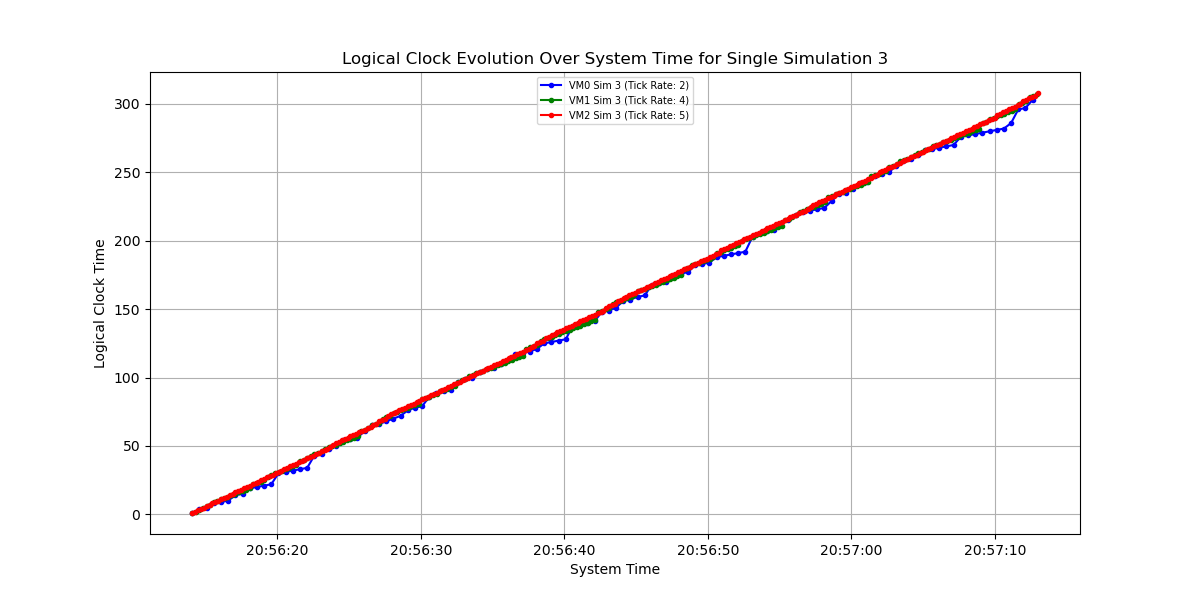
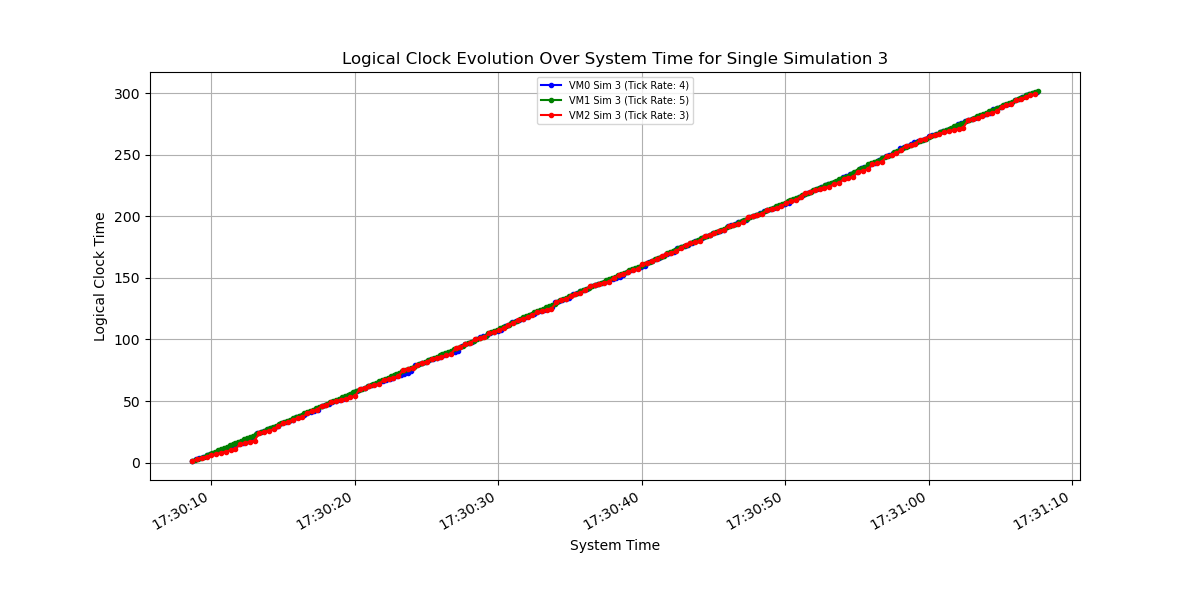
fix: simulation plot system time error

diff --git a/src/simulation_plots.py b/src/simulation_plots.py
@@ -7,6 +7,7 @@ import matplotlib.pyplot as plt
 def parse_log_file(file_path):
     """
     Parses a log file to extract system time, logical clock values, and tick rate.
+    Returns a DataFrame with the absolute system time (sorted) and logical clock values.
     """
     if not os.path.exists(file_path):
         print(f"Warning: {file_path} not found, skipping...")
@@ -31,11 +32,17 @@ def parse_log_file(file_path):
                 logical_clocks.append(logical_clock)
     
     df = pd.DataFrame({"System Time": system_times, "Logical Clock": logical_clocks})
+    # Sort DataFrame by absolute system time
+    df = df.sort_values("System Time")
     return df, tick_rate
+
+import matplotlib.dates as mdates
 
 def plot_simulations(data, output_path, title, single_sim=False):
     """
     Generates and saves a plot for multiple or single simulations.
+    Uses absolute system time (datetime) on the x-axis,
+    and forces the axis to show HH:MM:SS formatting.
     """
     plt.figure(figsize=(12, 6))
     vm_colors = {"VM0": "blue", "VM1": "green", "VM2": "red"}
@@ -44,9 +51,22 @@ def plot_simulations(data, output_path, title, single_sim=False):
         color = vm_colors.get(vm, "black")
         for sim_index, df, tick_rate in simulations:
             label = f"{vm} Sim {sim_index} (Tick Rate: {tick_rate})" if tick_rate else f"{vm} Sim {sim_index}"
-            marker_style = "o" if single_sim else None  # Use markers only for single simulation
-            plt.plot(df["System Time"], df["Logical Clock"], label=label, color=color, linestyle="-", marker=marker_style, markersize=3)
+            marker_style = "o" if single_sim else None
+            plt.plot(
+                df["System Time"], 
+                df["Logical Clock"], 
+                label=label,
+                color=color, 
+                linestyle="-", 
+                marker=marker_style, 
+                markersize=3
+            )
     
+    # Format the x-axis to show only the time (HH:MM:SS)
+    ax = plt.gca()
+    ax.xaxis.set_major_formatter(mdates.DateFormatter('%H:%M:%S'))
+    plt.gcf().autofmt_xdate()  # Optional: rotates and aligns the date labels
+
     plt.xlabel("System Time")
     plt.ylabel("Logical Clock Time")
     plt.title(title)
@@ -57,7 +77,7 @@ def plot_simulations(data, output_path, title, single_sim=False):
     print(f"Plot saved as {output_path}")
 
 def process_all_simulations():
-    """Processes and plots logical clock evolution over system time for all simulations across VMs."""
+    """Processes and plots logical clock evolution over absolute system time for all simulations across VMs."""
     files = {vm: [f"logs/sim{i}_{vm.lower()}_log.txt" for i in range(1, 6)] for vm in ["VM0", "VM1", "VM2"]}
     data = {vm: [] for vm in files}
     
@@ -66,12 +86,10 @@ def process_all_simulations():
             df, tick_rate = parse_log_file(file)
             if df is not None:
                 data[vm].append((sim_index, df, tick_rate))
-    
-    for vm, simulations in data.items():
-        if simulations:
-            plot_simulations({vm: simulations}, f"img/{vm}_logical_clock_plot.png", f"Logical Clock Evolution Over System Time for {vm}")
-    
-    plot_simulations(data, "img/all_vms_simulations_logical_clock_plot.png", "Logical Clock Evolution Over System Time for All VMs and Simulations")
+        
+    # Generate a combined plot for all VMs (x-axis will show the actual system time)
+    plot_simulations(data, "img/all_vms_simulations_logical_clock_plot.png", 
+                     "Logical Clock Evolution Over System Time for All VMs and Simulations")
 
 def process_single_simulation(simulation_number):
     """Processes and plots logical clock evolution for a single simulation across VMs."""
